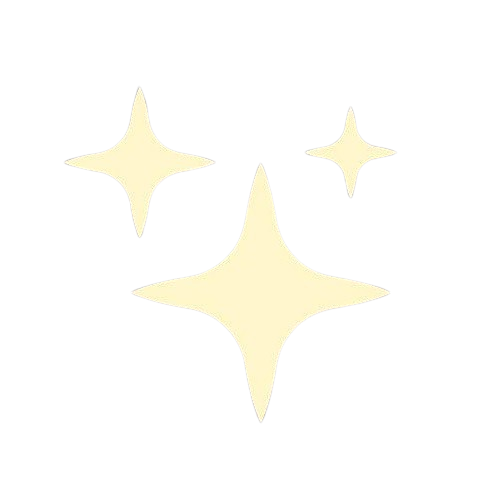
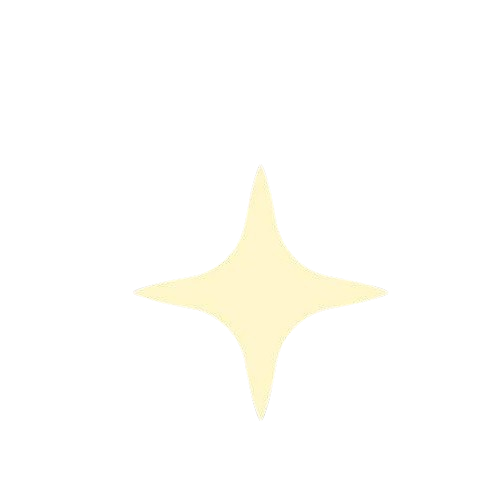
Honor Windows terminal launch preference at startup
- add Win32 console API usage to hide/show console based on config
- fix overlay header/player row sizing to use full panel width
- update star logo asset

Changed region(s): [[0.12, 0.18, 0.42, 0.48], [0.6, 0.21, 0.81, 0.39]]

diff --git a/crates/star-client/src/overlay/ui.rs b/crates/star-client/src/overlay/ui.rs
@@ -528,27 +528,34 @@ fn title_bar(
     match_context: Option<&MatchContext>,
     config: &Config,
 ) {
+    let row_height = theme::header_font().size.max(theme::small_font().size);
     ui.horizontal(|ui| {
+        ui.set_width(ui.max_rect().width());
         render_title_star_label(ui);
-        ui.with_layout(Layout::right_to_left(Align::Center), |ui| {
-            ui.label(
-                RichText::new(state.to_string())
-                    .font(theme::small_font())
-                    .color(state_color(state)),
-            );
-            if config.features.server_id {
-                if let Some(server_id) = match_context
-                    .map(|context| context.server_id.as_str())
-                    .filter(|server_id| !server_id.is_empty())
-                {
-                    ui.label(
-                        RichText::new(format_server_id(server_id))
-                            .font(theme::small_font())
-                            .color(theme::TEXT_MUTED),
-                    );
+        let remaining_width = ui.available_width();
+        ui.allocate_ui_with_layout(
+            Vec2::new(remaining_width, row_height),
+            Layout::right_to_left(Align::Center),
+            |ui| {
+                ui.label(
+                    RichText::new(state.to_string())
+                        .font(theme::small_font())
+                        .color(state_color(state)),
+                );
+                if config.features.server_id {
+                    if let Some(server_id) = match_context
+                        .map(|context| context.server_id.as_str())
+                        .filter(|server_id| !server_id.is_empty())
+                    {
+                        ui.label(
+                            RichText::new(format_server_id(server_id))
+                                .font(theme::small_font())
+                                .color(theme::TEXT_MUTED),
+                        );
+                    }
                 }
-            }
-        });
+            },
+        );
     });
 }
 
@@ -561,7 +568,7 @@ fn header_row(
     skin_label: &str,
 ) {
     let origin = ui.cursor().min;
-    let full_w = ui.available_width();
+    let full_w = ui.max_rect().width();
     ui.painter().rect_filled(
         Rect::from_min_size(origin, Vec2::new(full_w, HDR_H)),
         2.0,
@@ -650,7 +657,7 @@ fn player_row(
         theme::ROW_BG_ENEMY
     };
     let origin = ui.cursor().min;
-    let full_w = ui.available_width();
+    let full_w = ui.max_rect().width();
     ui.painter().rect_filled(
         Rect::from_min_size(origin, Vec2::new(full_w, ROW_H)),
         2.0,

diff --git a/crates/star-client/src/main.rs b/crates/star-client/src/main.rs
@@ -35,6 +35,9 @@ fn main() {
         Config::default()
     });
 
+    #[cfg(target_os = "windows")]
+    apply_terminal_launch_preference(&config);
+
     let quit_flag = Arc::new(AtomicBool::new(false));
     let app_state = Arc::new(RwLock::new(AppState::new(config.clone())));
 
@@ -69,6 +72,28 @@ fn main() {
     });
 
     run_overlay(app_state, quit_flag, key_held, tray);
+}
+
+#[cfg(target_os = "windows")]
+fn apply_terminal_launch_preference(config: &Config) {
+    use windows_sys::Win32::System::Console::GetConsoleWindow;
+    use windows_sys::Win32::UI::WindowsAndMessaging::{ShowWindow, SW_HIDE, SW_SHOW};
+
+    let console = unsafe { GetConsoleWindow() };
+    if console.is_null() {
+        return;
+    }
+
+    unsafe {
+        ShowWindow(
+            console,
+            if config.behavior.launch_without_terminal {
+                SW_HIDE
+            } else {
+                SW_SHOW
+            },
+        );
+    }
 }
 
 async fn run_background_loop(
